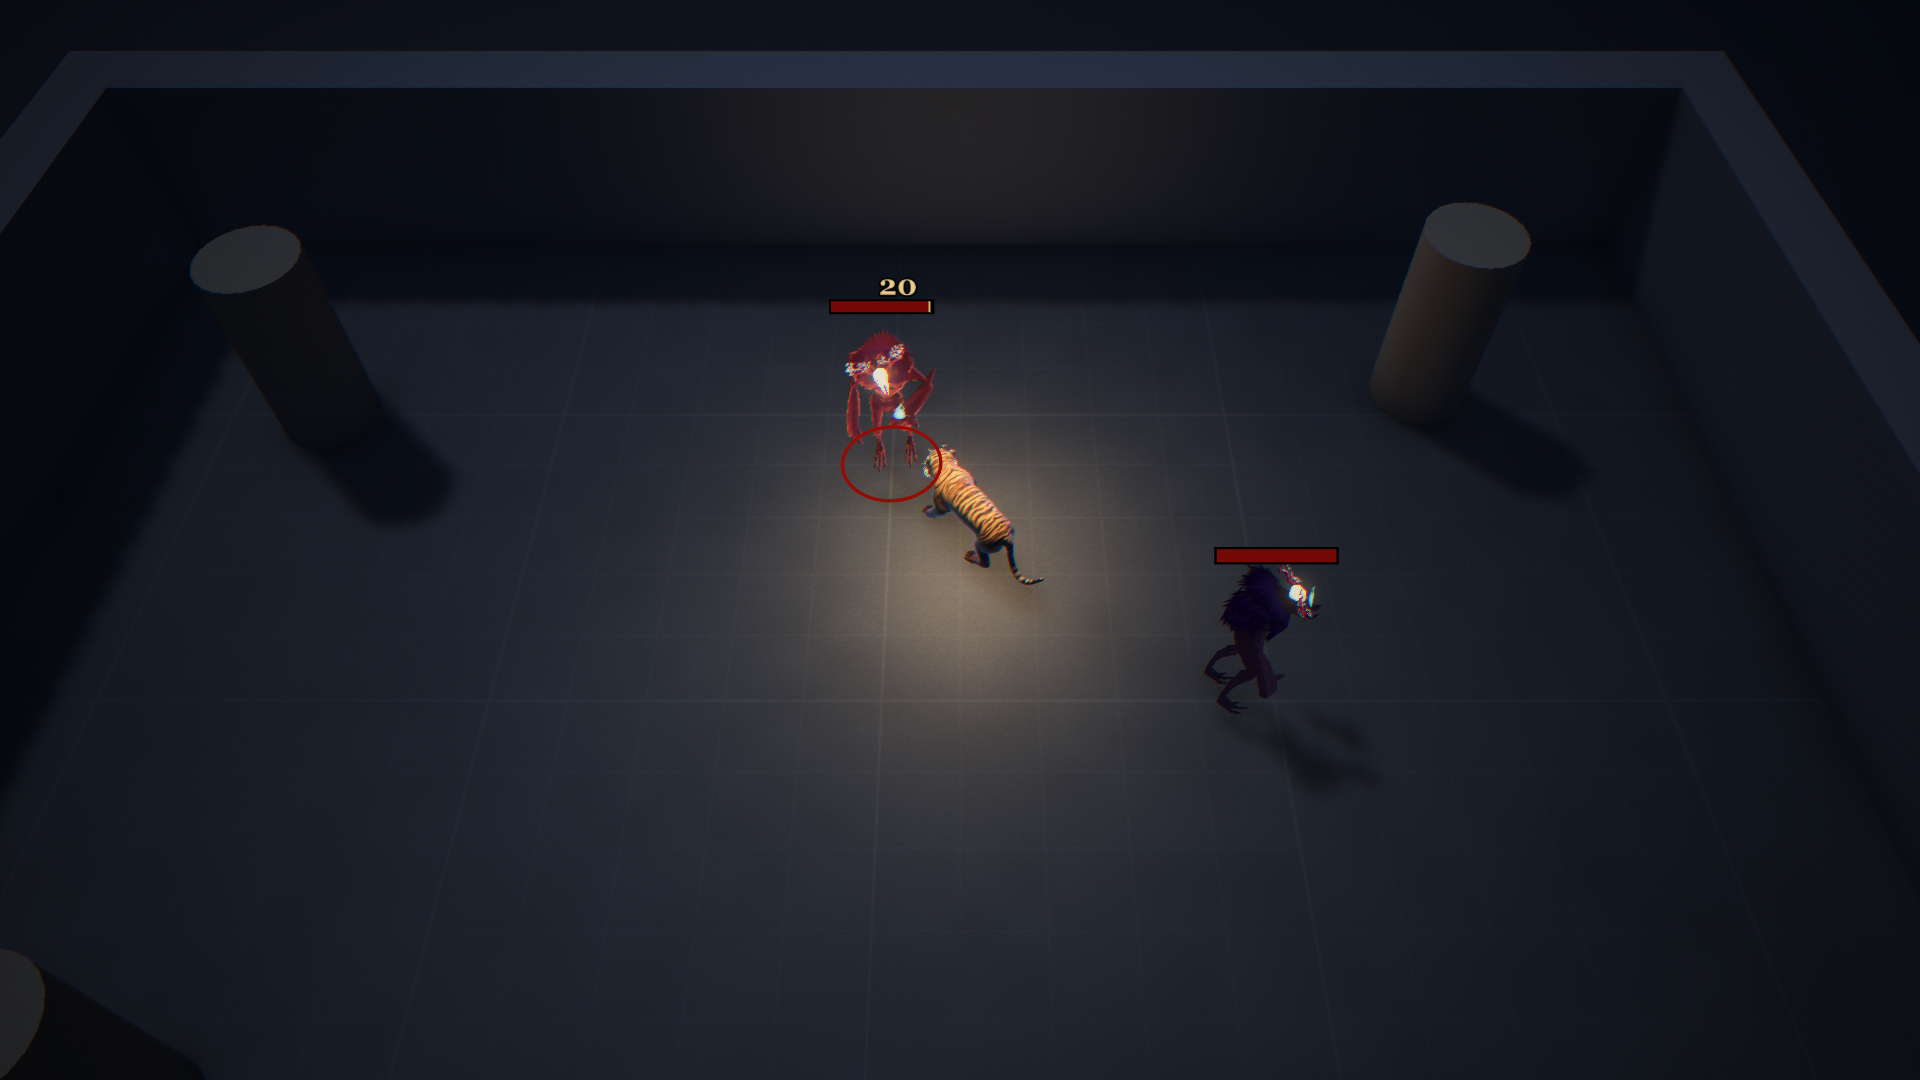
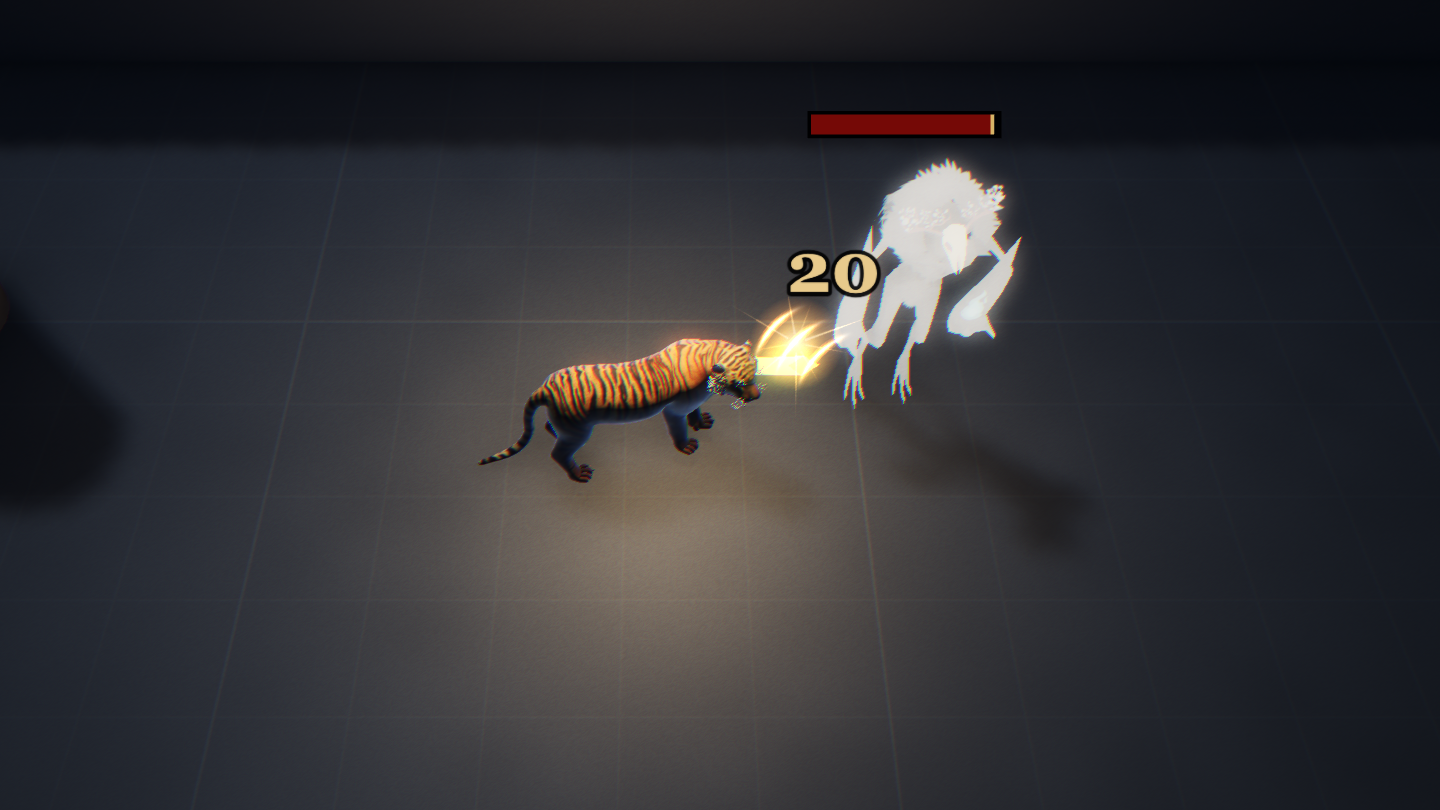
Devlog and docs: 2.2 wrap-up (final swipe, attack move, fresh shots)

diff --git a/AGENTS.md b/AGENTS.md
@@ -61,13 +61,13 @@ src/
   core/       loop, time, seeded RNG, math helpers
   ecs/        miniplex World<Entity>, entity/component types; uid.ts: stable `uid`s for bodies (`addWithUid`, `entityByUid`; miniplex's `world.id()` is lazy, so it can't go into sim state)
   systems/    pure simulation systems: (world, dt) => void. Player movement is playerControl (input → desired velocity, paths) then locomotion (any `mover`: integrates through collision's moveAndSlide unless `noclip`); movement numbers, the movement radius included, come only from movementStats(entity); the facing follows what it's casting at, else where the body actually moved (or where it wants to go when blocked), and a ~180° reversal swings back through the side it came from (`mover.turnSide`). Dummies (2.1): patrol.ts walks a `patrol` back and forth through locomotion, dummy.ts refills a dummy's health once it's left alone (`dummy` tunables). The transform snapshot also clears `health.taken`, the hits of the last tick. Abilities (2.2): casting.ts runs every `caster` (the player now, enemies in 3.1) after the controllers and before locomotion: cooldowns, a 0.2 s press buffer, the windup → effects or channel pulses, rooting (zeroes `mover.desired`) and `cast.face` (locomotion faces it); an auto attack still winding up is cancelled, cooldown refunded, once its controller drops or switches `caster.target` (a move order, stop, another target: League's attack cancel); with no cast running it starts a buffered press, else the auto attack on the sticky `caster.target` whenever the primary slot is ready and the target is in range. playerControl sets `caster.target` from the input's `hover` (WASD: held left click over an enemy, cleared by moving or a click off any enemy; moba: a right-click on an enemy is an attack order, `player.chase`, which paths into range; `S` arms an attack move (`player.attackMove`; the reach ring shows while it's armed) and a left click (`confirm`) goes for the enemy nearest the click, or walks there and picks up the first enemy near the way; `A` stops) and queues ability presses. cheats.ts holds the sim cheats (`simCommands`: noclip, no cooldowns)
-  render/     Babylon scene setup, entity↔mesh sync, views; the game camera (scene.ts places it from the `camera` tunables; cameraRig.ts, Babylon-free and tested, is the view-only follow: cursor look-ahead from the cursor's screen position, eased offset, clamp to the scene's bounds); the atmosphere (atmosphere.ts: one rig built by the shell and shared by every scene: moon + fitted shadow map, ambient fill, the player's warm light, exp2 + height fog, the post stack incl. SSAO and curves grading, the `overlay` scene drawn after post for markers and debug draw, the atmosphere-off/value-view switches; its numbers are the `light`/`shadow`/`fog`/`post`/`grade` tunables; fogMath.ts, Babylon-free and tested: analytic height fog, pulse, shadow frustum fit; heightFog.ts and floorMaterial.ts are WGSL material plugins; materials.ts makes the grey-box PBR materials); models (models.ts: glTF files preloaded once at boot into asset containers, instantiated per scene); the player's body (tiger.ts: the tiger model with its gait clips (idle/walk/trot/run) blended by the player's speed and sampled on `ctx.viewTime()`, plus procedural breathing, lean, tilt, a living tail (side-to-side and up-and-down spring chains driven by repeatable noise of the view time, occasional bigger swings, the stride and turns) and head look, and (1.7) a spine that bends through turns, a push-off on starts, stops that finish the step and settle, shuffle steps for short moves and a slowed gallop at cruise, played as a bound (the run's left/right legs pulled together in time) with the body's bounce, rock and back arch (an upside-down V as the legs gather) worked out from the run's own foot contacts at load; its numbers are the `tiger`/`anim` tunables; locomotionAnim.ts, Babylon-free and tested: gait blend and the gait driver (start, shuffle, stop), springs and the tail's spring chain, the spine bend, bank and look angles; rimMaterial.ts is a WGSL fresnel rim plugin (`rim` tunables); bodyView.ts is the hitboxes switch); the training dummies (dummies.ts: the Forest Guardian or a grey-box stand-in per dummy, floating and leaning into its glide, each with its own material copies and an invisible pick cylinder tagged `metadata.hoverUid`; it glows while hovered and flashes when hit (highlightMaterial.ts, a WGSL plugin: Babylon's outline renderer breaks our WebGPU prepass), recoils away from the hit, and in the overlay scene a health bar with a draining chip, and per entry in `health.taken` an impact where the paw lands (hitFx.ts: a starburst and claw scratches, additive) and a damage number punched in there); the hover pick (aim.ts `createHoverPick`: the shell picks the tagged mesh under the cursor every frame into `input.setHover`); the tiger's auto attack is a procedural paw hook on top of the gait, with a random paw each attack (`swipeSide`, a hash of the cast count, so replays repeat it; never the sim RNG): the front rears up while the paw cocks out and up, then a fast sweep across with a pounce-lunge, a shoulder whip and a head dip, a glowing trail behind the paw (TrailMesh), timed on the windup so the paw meets the target as the hit lands, fading out if the windup is cancelled (`swipe` tunables; locomotionAnim.ts `swipePhase` is its tested timing)
+  render/     Babylon scene setup, entity↔mesh sync, views; the game camera (scene.ts places it from the `camera` tunables; cameraRig.ts, Babylon-free and tested, is the view-only follow: cursor look-ahead from the cursor's screen position, eased offset, clamp to the scene's bounds); the atmosphere (atmosphere.ts: one rig built by the shell and shared by every scene: moon + fitted shadow map, ambient fill, the player's warm light, exp2 + height fog, the post stack incl. SSAO and curves grading, the `overlay` scene drawn after post for markers and debug draw, the atmosphere-off/value-view switches; its numbers are the `light`/`shadow`/`fog`/`post`/`grade` tunables; fogMath.ts, Babylon-free and tested: analytic height fog, pulse, shadow frustum fit; heightFog.ts and floorMaterial.ts are WGSL material plugins; materials.ts makes the grey-box PBR materials); models (models.ts: glTF files preloaded once at boot into asset containers, instantiated per scene); the player's body (tiger.ts: the tiger model with its gait clips (idle/walk/trot/run) blended by the player's speed and sampled on `ctx.viewTime()`, plus procedural breathing, lean, tilt, a living tail (side-to-side and up-and-down spring chains driven by repeatable noise of the view time, occasional bigger swings, the stride and turns) and head look, and (1.7) a spine that bends through turns, a push-off on starts, stops that finish the step and settle, shuffle steps for short moves and a slowed gallop at cruise, played as a bound (the run's left/right legs pulled together in time) with the body's bounce, rock and back arch (an upside-down V as the legs gather) worked out from the run's own foot contacts at load; its numbers are the `tiger`/`anim` tunables; locomotionAnim.ts, Babylon-free and tested: gait blend and the gait driver (start, shuffle, stop), springs and the tail's spring chain, the spine bend, bank and look angles; rimMaterial.ts is a WGSL fresnel rim plugin (`rim` tunables); bodyView.ts is the hitboxes switch); the training dummies (dummies.ts: the Forest Guardian or a grey-box stand-in per dummy, floating and leaning into its glide, each with its own material copies and an invisible pick cylinder tagged `metadata.hoverUid`; it glows while hovered and flashes when hit (highlightMaterial.ts, a WGSL plugin: Babylon's outline renderer breaks our WebGPU prepass), recoils away from the hit, and in the overlay scene a health bar with a draining chip, and per entry in `health.taken` an impact where the paw lands (hitFx.ts: a starburst and claw scratches, additive) and a damage number punched in there); the hover pick (aim.ts `createHoverPick`: the shell picks the tagged mesh under the cursor every frame into `input.setHover`); the tiger's auto attack is a procedural cross-body swipe on top of the gait, modelled on Nidalee's cougar in League, with a random paw each attack (`swipeSide`, a hash of the cast count, so replays repeat it; never the sim RNG): a coil (sinks, pulls back, the front bends toward the cocked paw, eyes on the target), then the whole body stretching forward and up as the paw sweeps across, carrying on past the target and settling; the turn bends through the spine with the hips counter-swinging and the tail whipping, and a glowing trail follows the paw (TrailMesh); it's placeholder work (the art pass makes custom models and animations), timed on the windup so the paw meets the target as the hit lands, fading out if the windup is cancelled (`swipe` tunables; locomotionAnim.ts `swipePhase` is its tested timing)
   input/      action bindings/presets, input state → per-tick InputFrame (dom.ts is the only DOM adapter)
   ui/         Preact HTML overlay (components, signals, CSS modules, styles/tokens.css); PauseMenu.tsx is the Esc menu (resume)
   data/       data-driven definitions (Babylon-free): abilities.ts (abilities as data: aim kind `target`/`direction`/`point`/`self`, roots, `stats(caster)` with cooldown, windup (0 = instant), range, optional channel and effects (damage to the target or in an area); the Cat's auto attack, `catAA` tunables, `CAT_SLOTS`), rooms/ (hand-built room layouts: obstacles as circles/rotated boxes; greybox = the combat room, gym = the collision test bench, yard = the Training yard with its dummies), dummies.ts (dummy spawns and sizes), later abilities, augments, enemies
   debug/      dev tools (lazy, DEBUG only): commands, pane, stats/profiler, debug-draw renderer, Inspector, replay session (debug/replay/), stand-in threats (standIns.ts)
   replay/     record & replay core, Babylon-free: file format, checksums, recorder, player, headless runner; fixtures/ are regression tests
-  scenes/     SceneSim (sim.ts, Babylon-free) + SceneDef/SceneContext (scene.ts), registries (sims.ts headless, index.ts full), room scenes (arena.ts: `roomSim(id, label, room)` → `yard` (the Training yard with the dummies, the default scene since 2.2), `arena` (greybox) and `gym`; spawnRoom also spawns a room's dummies; arena.view.ts: the shared room view with player body, dummies, click marker, occluder fading)
+  scenes/     SceneSim (sim.ts, Babylon-free) + SceneDef/SceneContext (scene.ts), registries (sims.ts headless, index.ts full), room scenes (arena.ts: `roomSim(id, label, room)` → `yard` (the Training yard with the dummies, the default scene since 2.2), `arena` (greybox) and `gym`; spawnRoom also spawns a room's dummies; arena.view.ts: the shared room view with player body, dummies, click markers (blue for a move, red for an attack move with a chevron pointing at the enemy it picked), the attack move's reach ring, occluder fading)
   nav/        pathfinding (Babylon-free): obstacles grown by a radius (shapes.ts), exact tangent graph over the grown shapes cached per world (graph.ts: circles = pillars and rounded box corners, edges = clear tangents + free arcs), generic deterministic A* (astar.ts), findPath (path.ts: start/goal tangents, arcs walked as a polygon 1 mm outside, closest reachable point when blocked). It fits exactly the gaps collision lets through
   combat/     hits and damage (Babylon-free): hit shapes (shapes.ts: circle, cone, line; `targetsIn(world, shape)` lists the entities with `health` whose `hurtbox` the shape touches, pure area checks that obstacles don't block, drawn in the `hits` debug category), applyDamage (damage.ts: health stops at 0, nothing dies yet, and each hit lands in `health.taken` for the view), and casting's pure helpers (abilities.ts: `faction` hostility, range edge to edge from the caster's movement circle to the target's hurtbox, aim resolution, effects)
   collision/  2D collision (Babylon-free): body shapes (body.ts: a circle, or a pill along the facing as a row of circles, for the body's hit shape in 2.1), swept circle vs grown obstacle shapes (cast.ts), moveAndSlide with projected sliding + safety-net push-out a skin clear, and clipVelocity (slide.ts); rooms.test.ts runs random walks through every room. Movers collide and path as one circle (`player.radius`, like League's pathing radius) whatever their model's shape. `solid` bodies (the player, dummies, later enemies) block each other both ways in locomotion, each a circle of its movement radius where it stands; enemies' is tiny (`dummy.radius` 0.15 m) so you feel them without thinking about it, and paths ignore them (you slide round)

diff --git a/devlog/2.2-ability-framework/index.md b/devlog/2.2-ability-framework/index.md
@@ -2,11 +2,11 @@
 
 > 2026-10-02 · [plan](../../slopdocs/plans/2.2-ability-framework.md)
 
-![The tiger attacking the static Forest Guardian: the dummy glows red under the cursor and a 20 pops over its bar (the red target ring under it was removed after this shot)](01-hero.png)
+![The tiger stretched into a hit on the static Forest Guardian: claw scratches and a starburst where the paw lands, the dummy flashing white and recoiling, a 20 punched in at the contact](01-hero.png)
 
 ## What we built
 
-The first thing in the game that deals damage. The cat's **auto attack** hits one enemy, the one you click: left click in WASD, right click in MOBA. It attacks about once every 1.4 s and slams for 20. Under it is the whole ability framework: five slots (the auto attack, three basics, the ultimate), cooldowns, a short press buffer, instant/windup/channel casts, target/direction/point/self aiming, and effects as data (damage to the target or in an area). Only the auto attack is in the game. The rest is covered by tests, including an enemy-side caster, since enemies will attack through the same machinery in 3.1. On screen, the enemy under the cursor glows and the cursor turns into claw marks, and the cat throws a paw hook that lands on the target as the damage does. A move order during the short windup cancels the attack, like League.
+The first thing in the game that deals damage. The cat's **auto attack** hits one enemy, the one you right-click (or the nearest one with an attack move, `S` then left click). It attacks about once every 1.4 s and slams for 20. Under it is the whole ability framework: five slots (the auto attack, three basics, the ultimate), cooldowns, a short press buffer, instant/windup/channel casts, target/direction/point/self aiming, and effects as data (damage to the target or in an area). Only the auto attack is in the game. The rest is covered by tests, including an enemy-side caster, since enemies will attack through the same machinery in 3.1. On screen, the enemy under the cursor glows and the cursor turns into claw marks. The cat coils, then stretches into a cross-body swipe with a random paw, modelled on Nidalee's cougar, and the paw meets the target as the damage lands, with an impact burst, scratches, a flash and a recoil. A move order during the short windup cancels the attack, like League. The tiger and its procedural swipe are placeholders: the art pass makes every model and animation custom.
 
 ## Key decisions
 
@@ -23,10 +23,17 @@ The first thing in the game that deals damage. The cat's **auto attack** hits on
 ## Surprises & problems
 
 - **Hovering an enemy froze the game.** Babylon's mesh outline makes an invalid WebGPU pipeline inside our SSAO prepass, so every frame failed while an outline was on. The highlight is now a glow from our own WGSL material plugin, and each dummy gets its own copies of the Guardian's materials so only the hovered one lights up.
+- **An attack move that sometimes did nothing.** You sent a replay of it, and tracing it input by input showed the cause: `S` pressed while the right button was still down from steering. That held click counted as a new move order and dropped the attack move a tick later. Only a new right-click drops it now.
+- **A hind-leg IK that broke the first attack.** To stop the hind feet sliding with the lunge, they were planted and then hopped forward with a small two-bone IK. It mangled the legs on the first attack (most likely because each foot's spot was recorded mid-stride), so it was reverted.
 - **The first attack animation didn't land.** The model's clip is almost four seconds of paw slam and roar, and played over the windup it looked like a small nudge forward with the damage arriving after it. The procedural hook replaced it, tuned from frame-by-frame side and top-down shots. A forearm curl in the wrong direction straightened the leg instead of folding it, and too much lift threw the paw over the shoulder.
 - **One new entity changed every replay checksum.** The uid counter is an entity, and checksums hash entities by their index. Before rewriting the fixtures, we checked that every recorded run still moved identically.
 
 ## Media
+
+An attack move armed: the pale ring is the auto attack's reach until the left click places it. Placed, it pops a red marker with a little chevron pointing at the enemy it picked.
+
+![The tiger with the attack move's reach ring around it, between the two Guardians](04-attack-move.png)
+
 
 The hit as it lands, two attacks: a right-paw hook arcing over the head (left), and a left-paw one across the shoulders (right). The trail, the impact burst and scratches, the dummy's flash and recoil, and the number punched in at the contact.
 

diff --git a/slopdocs/plans/2.2-ability-framework.md b/slopdocs/plans/2.2-ability-framework.md
@@ -163,7 +163,7 @@ ui/                    attack cursor from a hoveredEnemy signal
 - [x] WASD: left-clicking a dummy auto-attacks it at 0.7/s whenever it's in range, and keeps going after release until a WASD movement or another click. Holding A + left click over a dummy moves left, attacks it when ready and in range, and keeps moving. Hovering another dummy while holding switches the target.
 - [x] MOBA: right-clicking a dummy chases it into range and keeps attacking, including the patrolling one. Right-clicking the ground moves, and `S` stops (`A` since the attack move follow-up). Holding right click follows the cursor's target or ground.
 - [x] The cat is rooted only during the windup, faces its target, and every started attack lands.
-- [x] Hovered enemies glow (changed from an outline, see the notes) with an attack cursor, the target has a ring, the attack clip lines up with the hit, and damage numbers pop.
+- [x] Hovered enemies glow (changed from an outline, see the notes) with an attack cursor, and the attack reads as a hit: the paw meets the target on the damage tick, with an impact burst, scratches, a hit flash and recoil, and the number at the impact. (The target ring and the model's attack clip were dropped in the follow-ups.)
 - [x] The framework is Babylon-free and deterministic. Unit tests cover instant, windup and channel casts, cooldowns, the buffer, the aim kinds, shape effects and a non-player caster.
 - [x] Existing fixtures pass (checkpoints rewritten only for the new components), the new `yard-auto-attack` fixture passes, and `pnpm check` passes.
 - [x] Docs are updated, the devlog entry is written, 2.2 is ticked, and the PR is open with the checks and Preview green.
